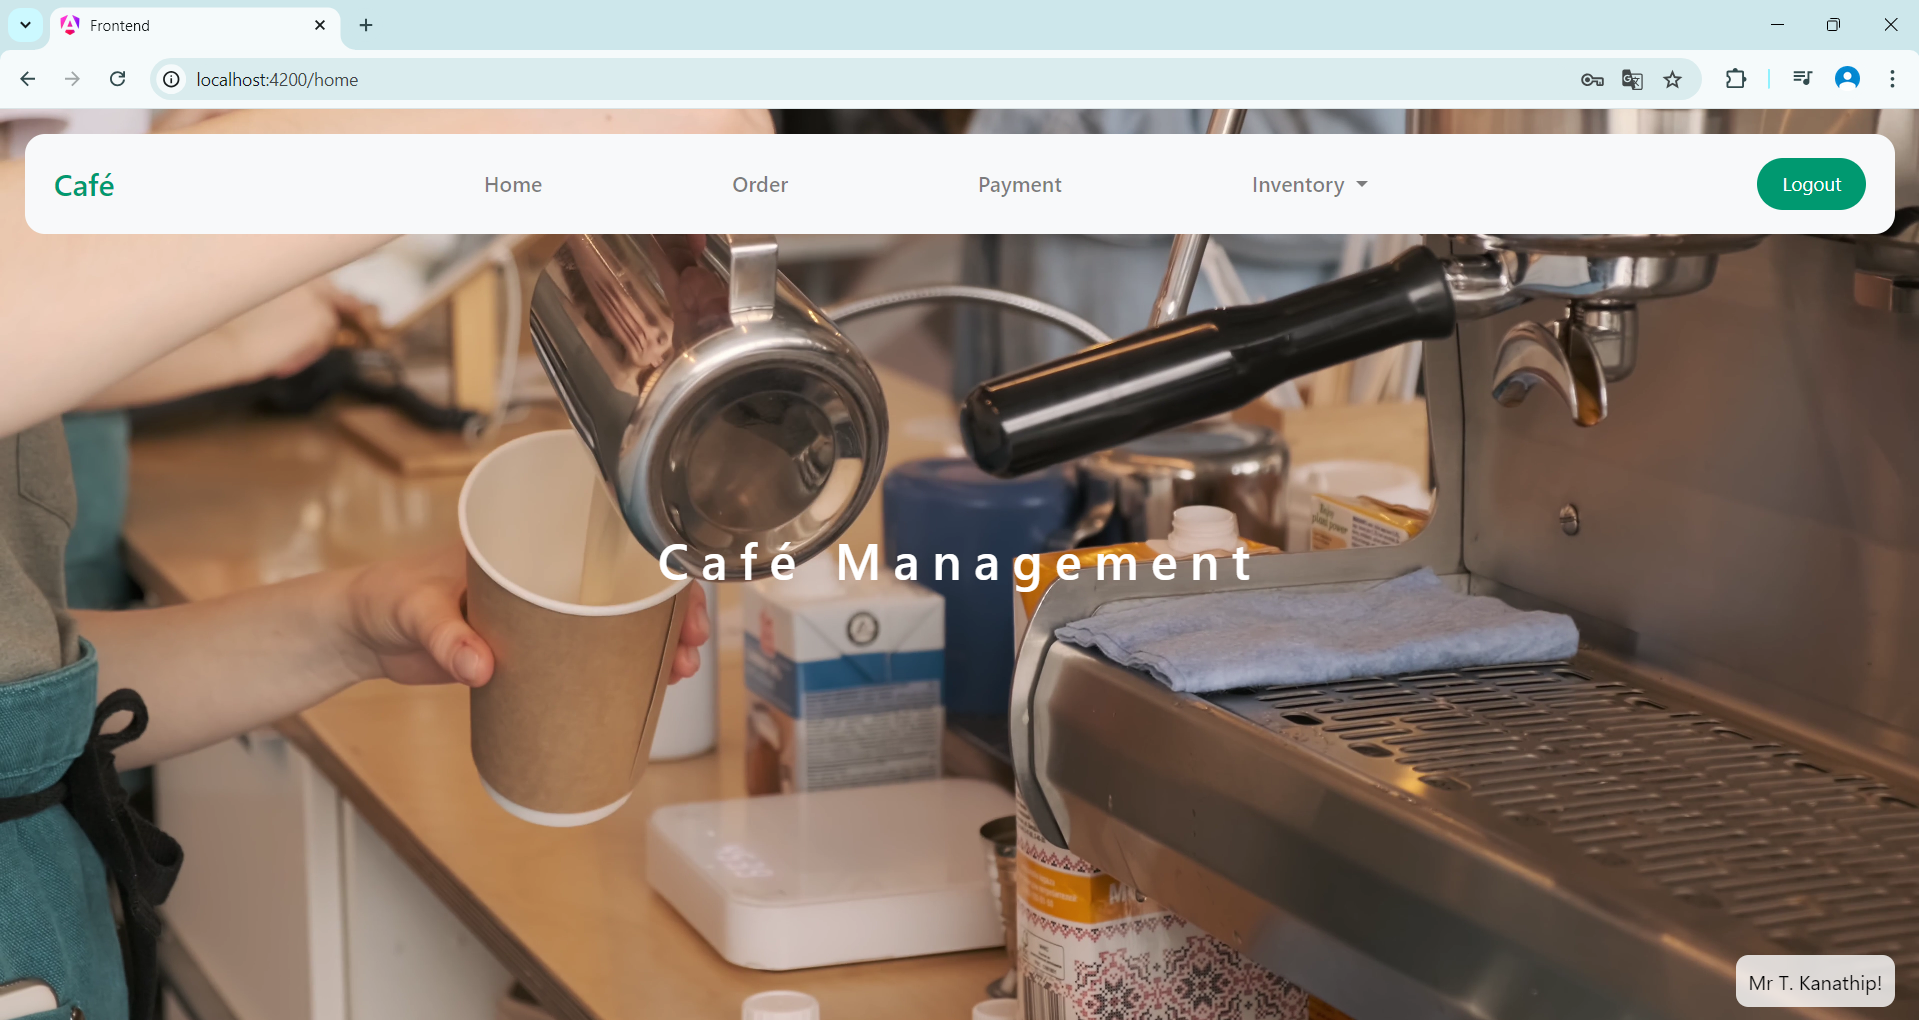
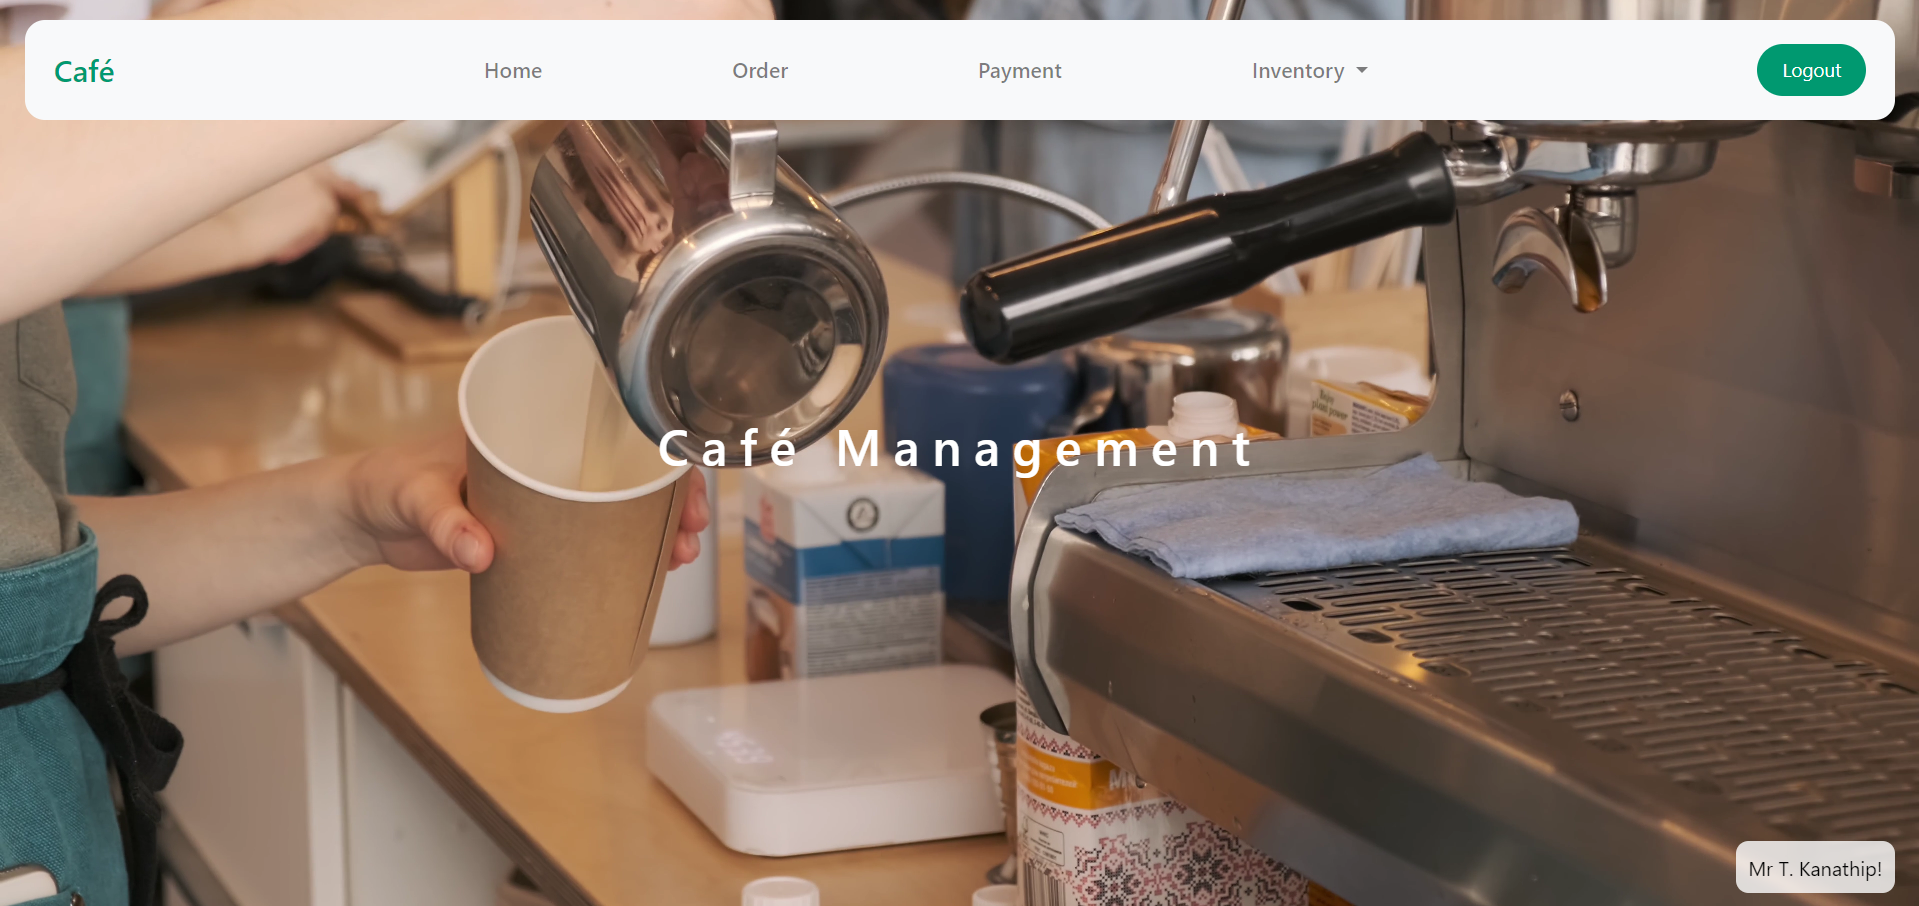
final draft

diff --git a/style.css b/style.css
@@ -13,8 +13,8 @@ body {
   top: 50%;
   left: 50%;
   transform: translate(-50%, -50%);
-  width: 1000px;
-  height: 600px;
+  width: 1280px;
+  height: 650px;
   background: #f5f5f5;
   box-shadow: 0 30px 50px #dbdbdb;
 }
@@ -28,7 +28,7 @@ body {
   width: 200px;
   height: 300px;
   position: absolute;
-  top: 50%;
+  top: 55%;
   transform: translate(0, -10%);
   border-radius: 20px;
   box-shadow: 0 30px 50px #505050;
@@ -48,19 +48,19 @@ body {
   height: 100%;
 }
 .slide .item:nth-child(3) {
-  left: 70%;
+  left: 88%;
 }
 .slide .item:nth-child(4) {
-  left: calc(70% + 220px);
+  left: calc(88% + 220px);
 }
 
 .slide .item:nth-child(5) {
-  left: calc(70% + 440px);
+  left: calc(88% + 440px);
 }
 
 /* For items beyond the first five */
 .slide .item:nth-child(n + 6) {
-  left: calc(70% + 660px);
+  left: calc(88% + 660px);
   opacity: 0;
 }
 
@@ -80,12 +80,72 @@ body {
   display: block;
 }
 
-.content .name {
-  font-size: 40px;
+.content .name-title {
+  font-size: 120px;
   text-transform: uppercase;
   font-weight: bold;
   opacity: 0;
   animation: animate 1s ease-in-out 1 forwards;
+  padding: 4rem;
+}
+.name-login {
+  font-size: 100px;
+  text-transform: uppercase;
+  font-weight: bold;
+  opacity: 0;
+  animation: animate 1s ease-in-out 1 forwards;
+  padding: 4rem;
+}
+.name-register {
+  font-size: 100px;
+  text-transform: uppercase;
+  font-weight: bold;
+  opacity: 0;
+  animation: animate 1s ease-in-out 1 forwards;
+  position: relative; /* ใช้ position relative เพื่อขยับจากตำแหน่งเดิม */
+  right: 8px;
+}
+.name-home {
+  font-size: 140px;
+  text-transform: uppercase;
+  font-weight: bold;
+  opacity: 0;
+  animation: animate 1s ease-in-out 1 forwards;
+  position: relative; /* ใช้ position relative เพื่อขยับจากตำแหน่งเดิม */
+  left: 40px;
+  top: 170px;
+}
+.name-order {
+  font-size: 135px;
+  text-transform: uppercase;
+  font-weight: bold;
+  opacity: 0;
+  animation: animate 1s ease-in-out 1 forwards;
+  position: relative; /* ใช้ position relative เพื่อขยับจากตำแหน่งเดิม */
+  position: relative; /* ใช้ position relative เพื่อขยับจากตำแหน่งเดิม */
+  left: 40px;
+  top: 170px;
+}
+.name-inventory {
+  font-size: 100px;
+  text-transform: uppercase;
+  font-weight: bold;
+  opacity: 0;
+  animation: animate 1s ease-in-out 1 forwards;
+  position: relative; /* ใช้ position relative เพื่อขยับจากตำแหน่งเดิม */
+  position: relative; /* ใช้ position relative เพื่อขยับจากตำแหน่งเดิม */
+  left: 40px;
+  top: 170px;
+}
+.name-payment {
+  font-size: 140px;
+  text-transform: uppercase;
+  font-weight: bold;
+  opacity: 0;
+  animation: animate 1s ease-in-out 1 forwards;
+  position: relative; /* ใช้ position relative เพื่อขยับจากตำแหน่งเดิม */
+  left: 40px;
+  top: 170px;
 }
 
 .content .des {
@@ -136,4 +196,20 @@ body {
 .button button:hover {
   background: #ababab; /* Change background color on hover */
   color: #fff; /* Change text color on hover */
+}
+.arrow {
+  border: solid black;
+  border-width: 0 3px 3px 0;
+  display: inline-block;
+  padding: 3px;
+}
+
+.right {
+  transform: rotate(-45deg);
+  -webkit-transform: rotate(-45deg);
+}
+
+.left {
+  transform: rotate(135deg);
+  -webkit-transform: rotate(135deg);
 }

diff --git a/index.html b/index.html
@@ -17,46 +17,54 @@
   <body>
     <div class="container">
       <div class="slide">
-        <div class="item" style="background-image: url(assets/login.png)">
+        <div class="item" style="background-image: url(assets/title.jpg)">
           <div class="content">
-            <div class="name">Login</div>
-            <div class="des">
-              Lorem ipsum dolor, sit amet consectetur adipisicing elit. Ab, eum!
-            </div>
-            <button>See More</button>
+            <div class="name-title">Café Management</div>
           </div>
         </div>
-        <div class="item" style="background-image: url(assets/register.png)">
+        <div class="item" style="background-image: url(assets/login-back.png)">
           <div class="content">
-            <div class="name">Register</div>
-            <div class="des">
-              Lorem ipsum dolor, sit amet consectetur adipisicing elit. Ab, eum!
-            </div>
-            <button>See More</button>
+            <div class="name-login">Login</div>
           </div>
         </div>
-        <div class="item" style="background-image: url(assets/home.png)">
+        <div
+          class="item"
+          style="background-image: url(assets/register-back.png)"
+        >
           <div class="content">
-            <div class="name">Home</div>
-            <div class="des">
-              Lorem ipsum dolor, sit amet consectetur adipisicing elit. Ab, eum!
-            </div>
-            <button>See More</button>
+            <div class="name-register">Register</div>
           </div>
         </div>
-        <div class="item" style="background-image: url(assets/home.png)">
+        <div class="item" style="background-image: url(assets/home-back.png)">
           <div class="content">
-            <div class="name">Home</div>
-            <div class="des">
-              Lorem ipsum dolor, sit amet consectetur adipisicing elit. Ab, eum!
-            </div>
-            <button>See More</button>
+            <div class="name-home">Home</div>
+          </div>
+        </div>
+        <div class="item" style="background-image: url(assets/order-back.png)">
+          <div class="content">
+            <div class="name-order">Order</div>
+          </div>
+        </div>
+        <div
+          class="item"
+          style="background-image: url(assets/inventory-back.png)"
+        >
+          <div class="content">
+            <div class="name-inventory">Inventory</div>
+          </div>
+        </div>
+        <div
+          class="item"
+          style="background-image: url(assets/payment-back.png)"
+        >
+          <div class="content">
+            <div class="name-payment">Payment</div>
           </div>
         </div>
       </div>
       <div class="button">
-        <button class="prev"><i class="fa-solid fa-arrow-left"></i></button>
-        <button class="next"><i class="fa-solid fa-arrow-right"></i></button>
+        <button class="prev"><i class="arrow left"></i></button>
+        <button class="next"><i class="arrow right"></i></button>
       </div>
     </div>
     <script src="app.js"></script>
